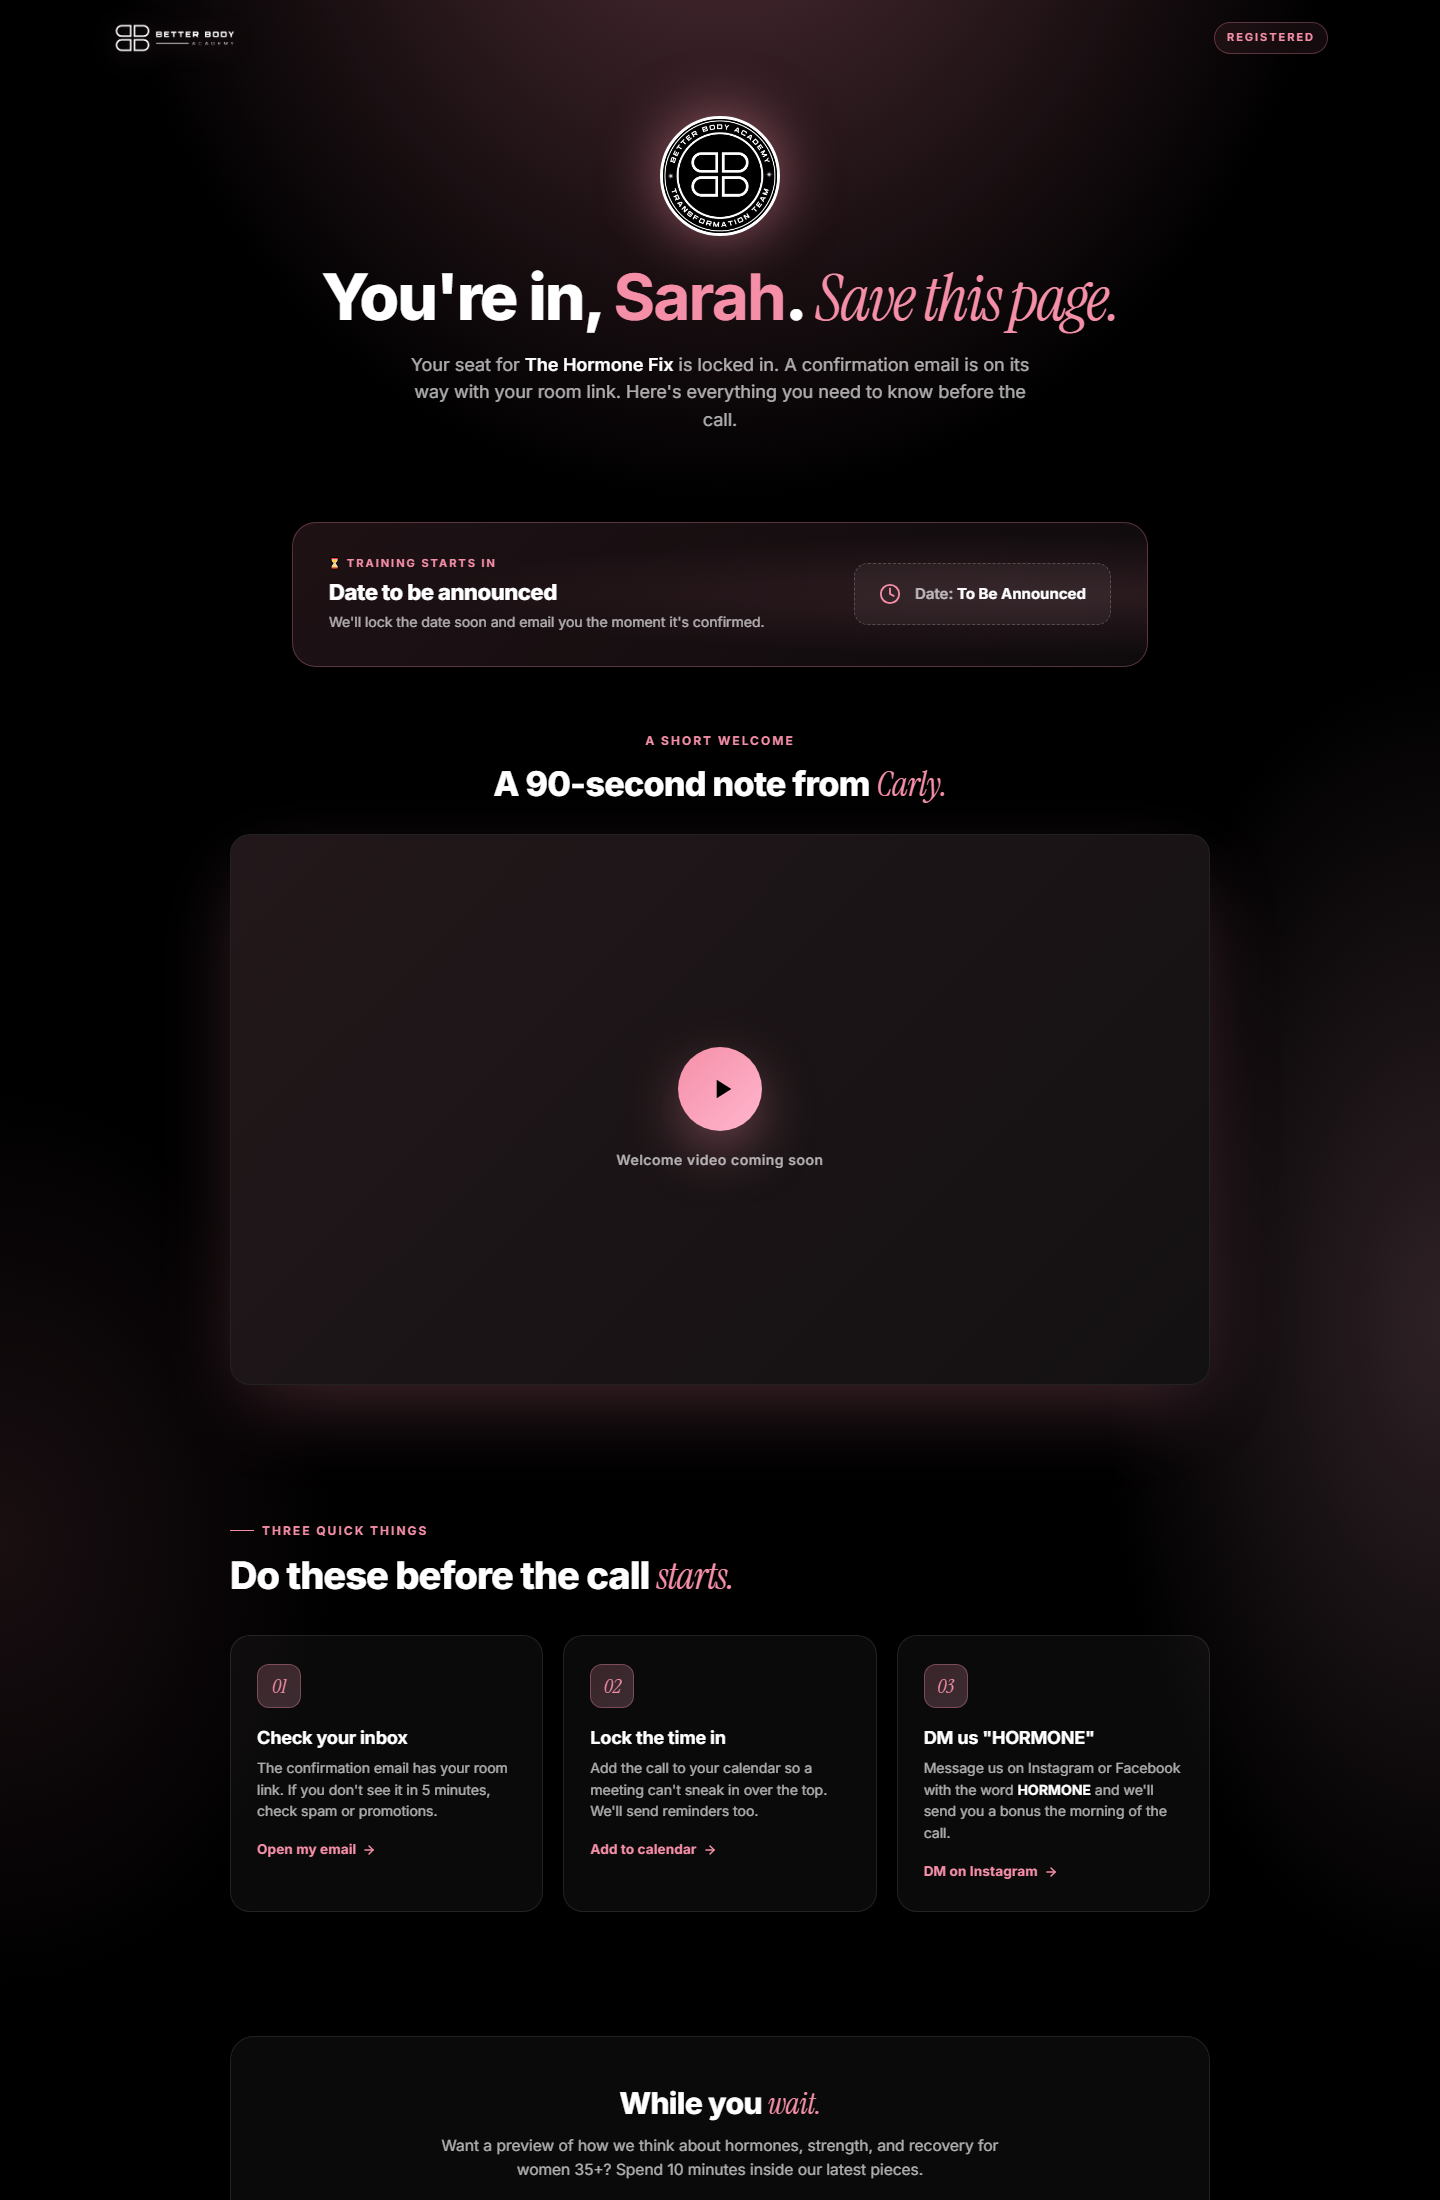
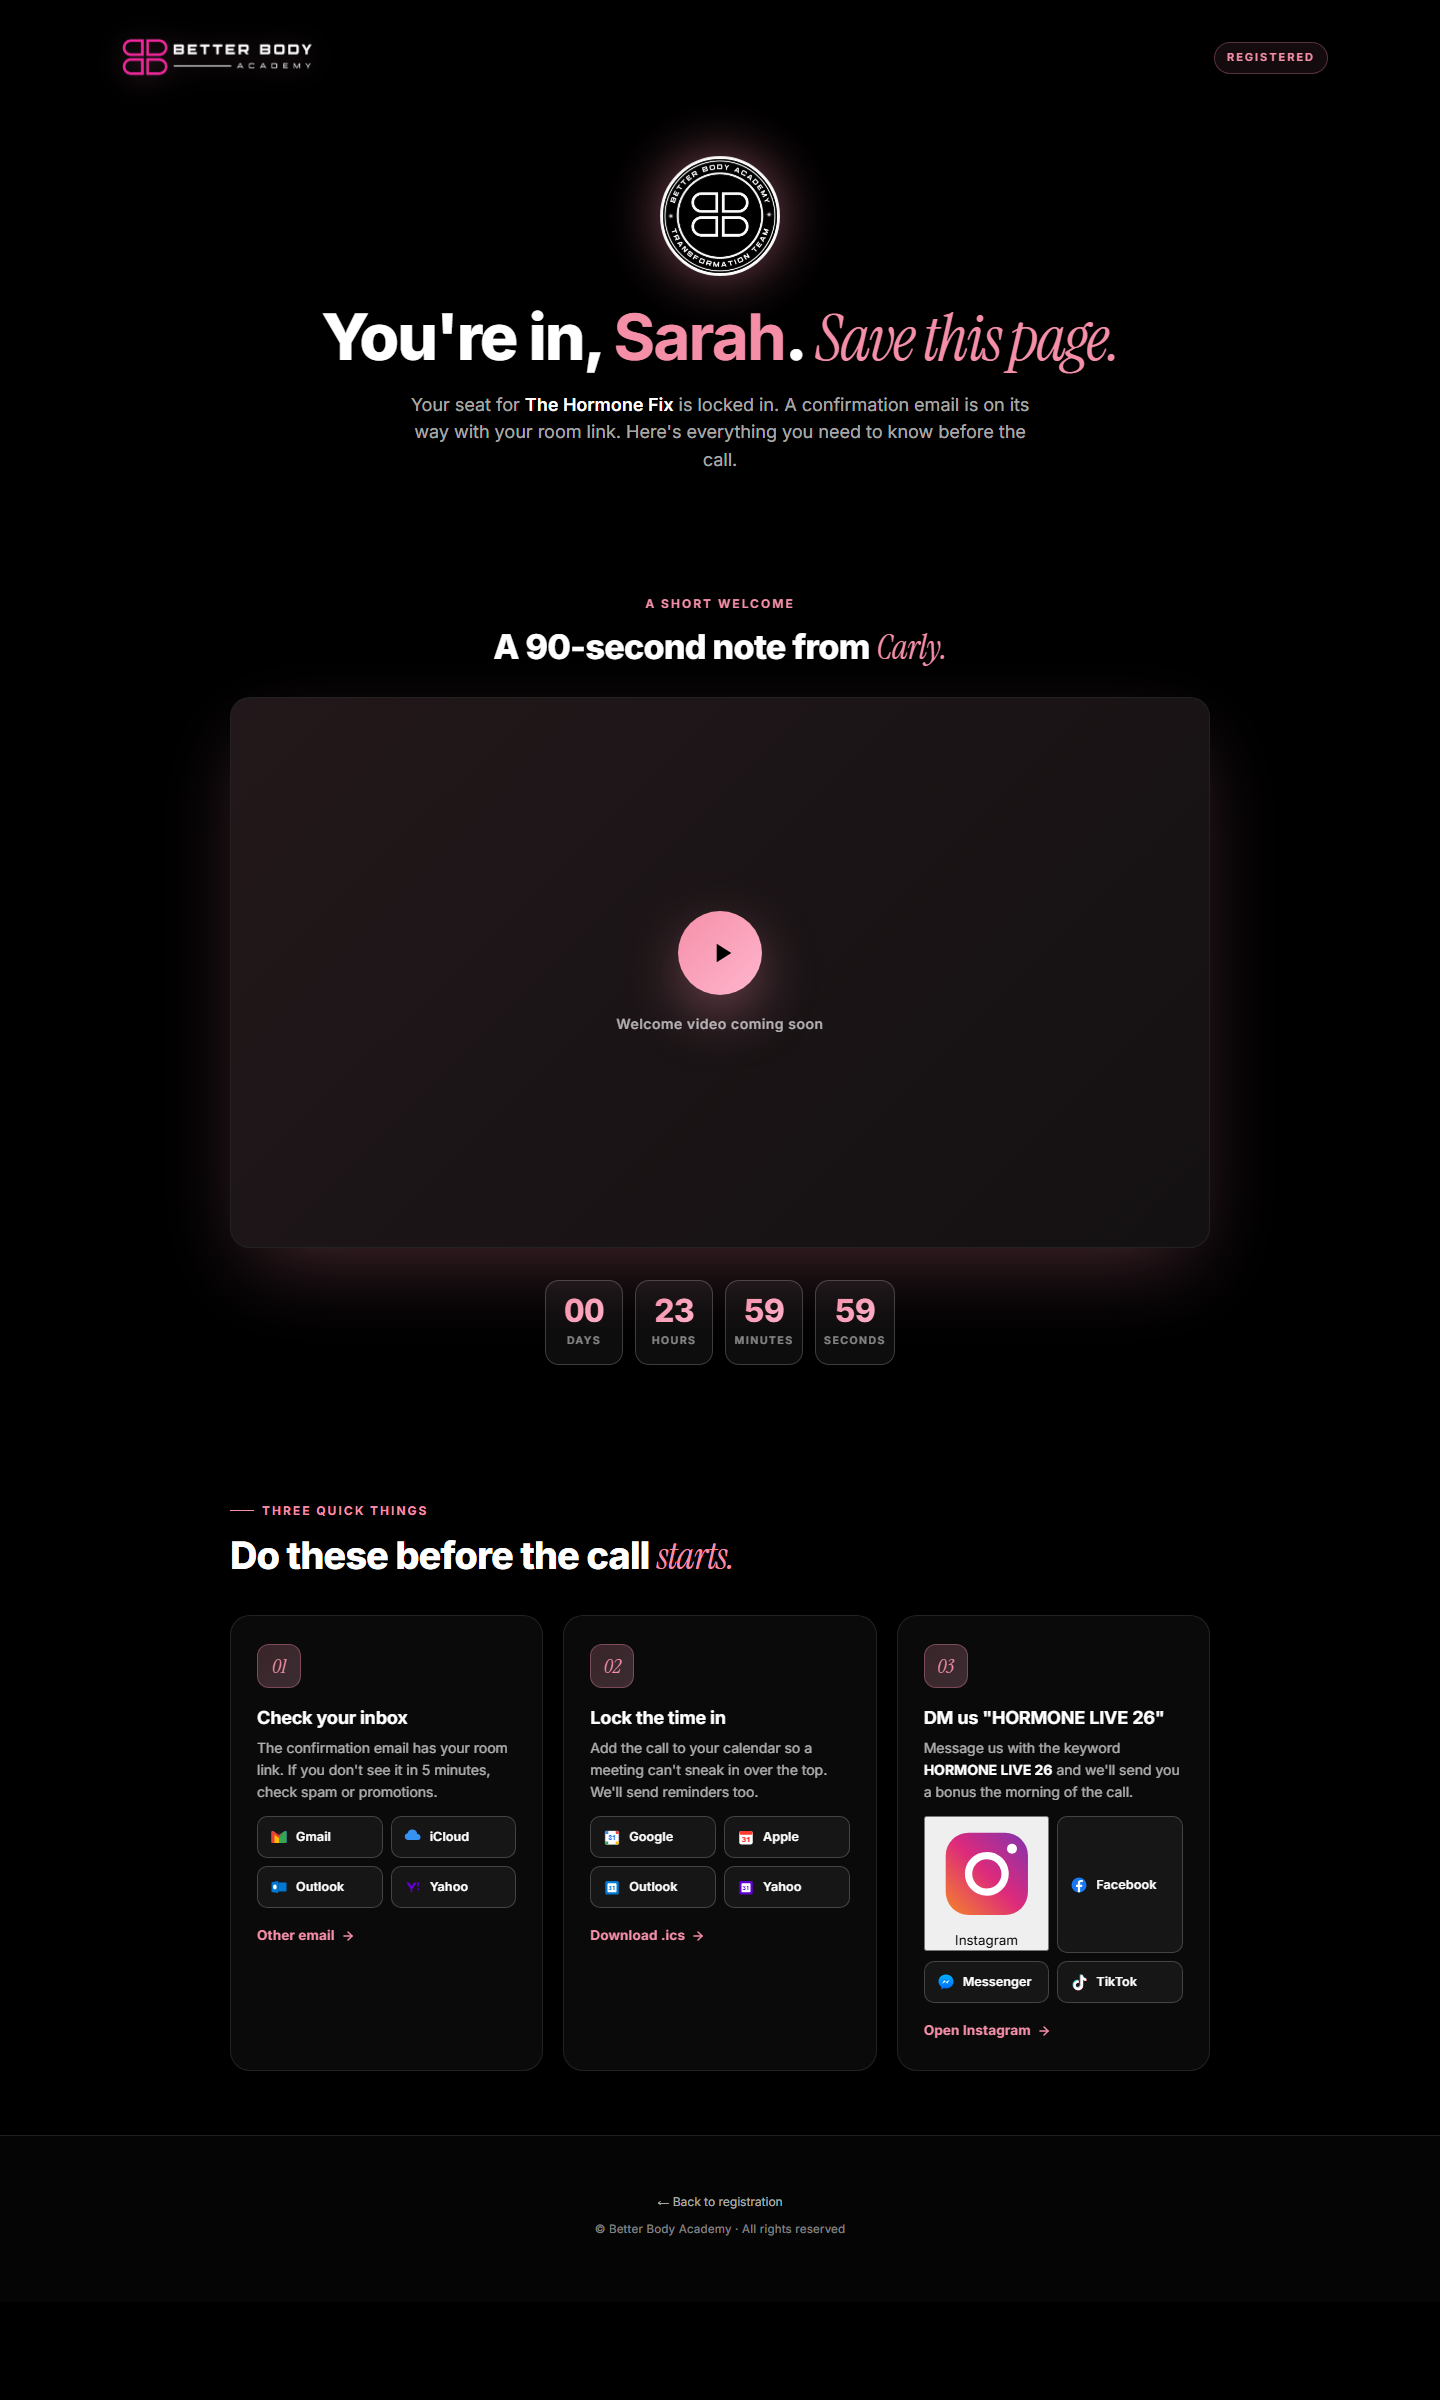
Link IG/FB/TikTok to Carly's accounts, remove Messenger, force all-black background

diff --git a/index.html b/index.html
@@ -250,18 +250,34 @@
   .social-providers{
     display:grid;grid-template-columns:repeat(2,1fr);gap:8px;margin:0 0 14px;
   }
-  .social-providers a.provider{
+  .social-providers .provider{
     display:flex;align-items:center;gap:8px;padding:10px 12px;
     border-radius:10px;background:rgba(255,255,255,0.05);
     border:1px solid var(--line-strong);
     color:#fff;text-decoration:none;font-weight:600;font-size:12.5px;
     transition:all 0.2s;
+    width:100%;text-align:left;font-family:inherit;cursor:pointer;
   }
-  .social-providers a.provider:hover{
+  .social-providers .provider:hover{
     border-color:var(--pink);background:rgba(245,143,168,0.08);
     transform:translateY(-1px);color:#fff;
   }
-  .social-providers a.provider svg{width:18px;height:18px;flex-shrink:0;transition:none}
+  .social-providers .provider svg{width:18px;height:18px;flex-shrink:0;transition:none}
+
+  .social-providers .provider-wrap{position:relative}
+  .social-providers .account-menu{
+    position:absolute;top:calc(100% + 6px);left:0;right:0;z-index:20;
+    background:#101010;border:1px solid var(--line-strong);border-radius:10px;
+    box-shadow:0 16px 40px -12px rgba(0,0,0,0.6);
+    padding:6px;display:none;
+  }
+  .social-providers .provider-wrap.open .account-menu{display:block}
+  .social-providers .account-menu a{
+    display:flex;align-items:center;gap:8px;padding:9px 10px;border-radius:8px;
+    color:#fff;text-decoration:none;font-size:12.5px;font-weight:600;
+  }
+  .social-providers .account-menu a:hover{background:rgba(245,143,168,0.1);color:var(--pink)}
+  .social-providers .account-menu .handle-meta{color:var(--subtle);font-weight:500;font-size:11px;margin-left:auto}
 
   .keyword-tag{
     display:inline-flex;align-items:center;gap:8px;
@@ -294,7 +310,7 @@
   }
   .btn-ghost:hover{border-color:var(--pink);background:rgba(245,143,168,0.08);color:var(--pink)}
 
-  footer{padding:48px 32px 64px;text-align:center;border-top:1px solid var(--line);background:var(--bg-deep)}
+  footer{padding:48px 32px 64px;text-align:center;border-top:1px solid var(--line);background:#000}
   .footer-inner{max-width:880px;margin:0 auto}
   .copyright{font-size:11.5px;color:var(--subtle);letter-spacing:0.02em}
   footer p{margin:8px 0;font-size:12px;color:var(--muted)}
@@ -450,7 +466,7 @@
           <h3>DM us "HORMONE LIVE 26"</h3>
           <p>Message us with the keyword <strong style="color:#fff">HORMONE LIVE 26</strong> and we'll send you a bonus the morning of the call.</p>
           <div class="social-providers">
-            <a class="provider" href="https://instagram.com/" target="_blank" rel="noopener" aria-label="DM on Instagram">
+            <a class="provider" href="https://www.instagram.com/carlystuart_betterbodyacademy/" target="_blank" rel="noopener" aria-label="DM Carly on Instagram">
               <svg viewBox="0 0 24 24" xmlns="http://www.w3.org/2000/svg" aria-hidden="true">
                 <defs>
                   <linearGradient id="igGrad" x1="0%" y1="100%" x2="100%" y2="0%">
@@ -465,27 +481,14 @@
               </svg>
               <span>Instagram</span>
             </a>
-            <a class="provider" href="https://facebook.com/" target="_blank" rel="noopener" aria-label="DM on Facebook">
+            <a class="provider" href="https://www.facebook.com/carly.stuart.7/" target="_blank" rel="noopener" aria-label="DM Carly on Facebook">
               <svg viewBox="0 0 24 24" xmlns="http://www.w3.org/2000/svg" aria-hidden="true">
                 <circle cx="12" cy="12" r="10" fill="#1877F2"/>
                 <path fill="#fff" d="M13.5 21.5v-7H16l.5-3h-3V9.5c0-.9.3-1.5 1.6-1.5H17V5.3c-.3 0-1.3-.1-2.5-.1-2.5 0-4 1.5-4 4.2V11.5H8v3h2.5v7z"/>
               </svg>
               <span>Facebook</span>
             </a>
-            <a class="provider" href="https://m.me/" target="_blank" rel="noopener" aria-label="DM on Messenger">
-              <svg viewBox="0 0 24 24" xmlns="http://www.w3.org/2000/svg" aria-hidden="true">
-                <defs>
-                  <linearGradient id="msgGrad" x1="50%" y1="0%" x2="50%" y2="100%">
-                    <stop offset="0%" stop-color="#00B2FF"/>
-                    <stop offset="100%" stop-color="#006AFF"/>
-                  </linearGradient>
-                </defs>
-                <path fill="url(#msgGrad)" d="M12 2C6.5 2 2 6.1 2 11.2c0 2.9 1.4 5.5 3.7 7.2v3.6l3.4-1.9c.9.3 1.9.4 2.9.4 5.5 0 10-4.1 10-9.3S17.5 2 12 2z"/>
-                <path fill="#fff" d="m6.7 14.3 3-4.7 2.4 2.4 4.5-2.8-3 4.7-2.4-2.4z"/>
-              </svg>
-              <span>Messenger</span>
-            </a>
-            <a class="provider" href="https://www.tiktok.com/" target="_blank" rel="noopener" aria-label="DM on TikTok">
+            <a class="provider" href="https://www.tiktok.com/@carlystuart_bba" target="_blank" rel="noopener" aria-label="Follow Carly on TikTok">
               <svg viewBox="0 0 24 24" xmlns="http://www.w3.org/2000/svg" aria-hidden="true">
                 <path fill="#25F4EE" d="M16.5 2.5h-3v13.2c0 1.7-1.4 3.1-3.1 3.1s-3.1-1.4-3.1-3.1 1.4-3.1 3.1-3.1c.3 0 .6 0 .9.1V9.5c-.3 0-.6-.1-.9-.1C7 9.4 4 12.4 4 16s3 6.6 6.6 6.6 6.6-3 6.6-6.6V8.7c1.2.9 2.7 1.4 4.3 1.4V7c-2.5 0-4.5-2-4.5-4.5z" transform="translate(-0.5,-0.5)"/>
                 <path fill="#FE2C55" d="M17.5 3.5h-3v13.2c0 1.7-1.4 3.1-3.1 3.1s-3.1-1.4-3.1-3.1 1.4-3.1 3.1-3.1c.3 0 .6 0 .9.1V10.5c-.3 0-.6-.1-.9-.1C8 10.4 5 13.4 5 17s3 6.6 6.6 6.6 6.6-3 6.6-6.6V9.7c1.2.9 2.7 1.4 4.3 1.4V8c-2.5 0-4.5-2-4.5-4.5z" transform="translate(-0.5,-0.5)"/>
